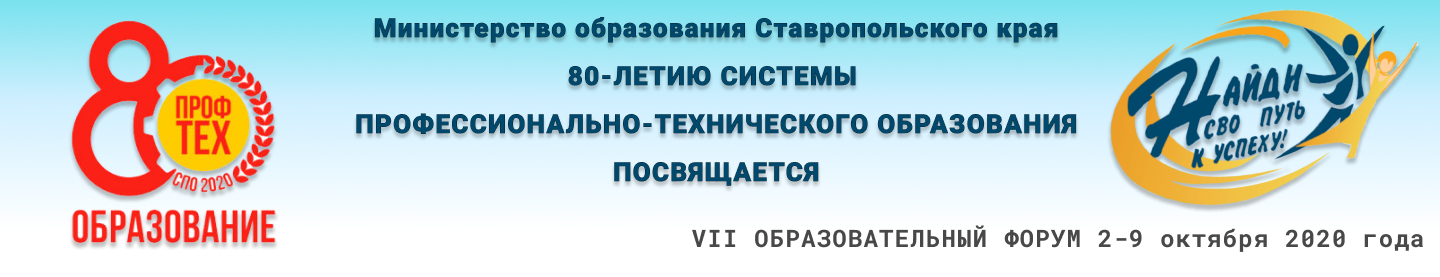
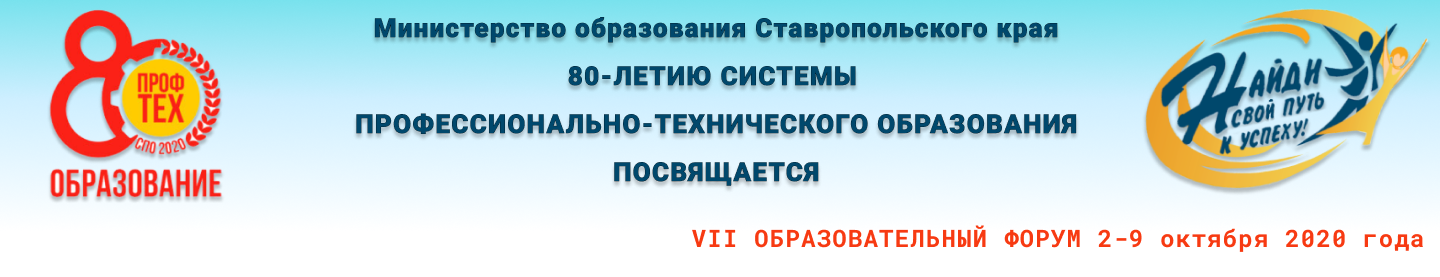
Обновление header + изменение списка участников + фавикон + кнопка наверх

diff --git a/index.html b/index.html
@@ -4,7 +4,9 @@
 <head>
     <meta charset="UTF-8">
     <meta name="viewport" content="width=device-width, initial-scale=1.0">
-    <title>Форум</title>
+    <title>Путь к успеху 2020</title>
+    <link rel="icon" type="image/png" sizes="32x32" href="img/favicon-32x32.png">
+<link rel="icon" type="image/png" sizes="16x16" href="img/favicon-16x16.png">
     <!-- CSS only -->
 <link rel="stylesheet" href="https://stackpath.bootstrapcdn.com/bootstrap/5.0.0-alpha1/css/bootstrap.min.css" integrity="sha384-r4NyP46KrjDleawBgD5tp8Y7UzmLA05oM1iAEQ17CSuDqnUK2+k9luXQOfXJCJ4I" crossorigin="anonymous">
 <link rel="stylesheet" href="style.css">
@@ -40,7 +42,7 @@ style="width:88px;  height:31px; border:0;" alt="Яндекс.Метрика" ti
 <noscript><div><img src="https://mc.yandex.ru/watch/67501840" style="position:absolute; left:-9999px;" alt="" /></div></noscript>
 <!-- /Yandex.Metrika counter -->
 <body>
-  <header>
+  <header id="head">
       <img src="img/head.png" alt="шапка">
   </header>
   <section class="naw_wrapper">
@@ -99,20 +101,37 @@ style="width:88px;  height:31px; border:0;" alt="Яндекс.Метрика" ti
                 
                 <div class="right-content-content_text" id="open">
             <p id="bb"> <img src="img/znak.png" alt="">Сайт предназначен для учащихся общеобразовательных школ, думающих о своей
-                будущей профессиональной деятельности. Мы рекомендуем рассмотреть материалы
+                будущей профессиональной деятельности. Мы рекомендуем рассмотреть материалы,
                 представленные здесь</p>
                 <!-- <hr width="100%" size="4px" color="black"> -->
                 <p id="tb">Участниками VII Образовательного форум «Найди свой путь к успеху!» на территории 7
                     зоны являются:</p>
-                    <ul>
-                        <li>Георгиевский региональный колледж «Интеграл»</li>
-                        <li>Георгиевский колледж</li>
-                        <li>Георгиевский техникум механизации, автоматизации и управления</li>
-                        <li>Новопавловский многопрофильный техникум</li>
-                    </ul>
+                      <div class="kollege_logo">
+                        <div class="kollege_logo_block quadro">
+                          <a href="https://www.gbpou-nmt.ru/" target="_blank"><img src="img/nmt.png" alt="Новопавловский многопрофильный техникум"></a>
+                          <p>Новопавловский многопрофильный техникум</p>
+                        </div>
+
+                        <div class="kollege_logo_block rectangle">
+                          <a href="http://www.integral-geo.ru/index.html" target="_blank" ><img src="img/integral.jpg" alt="Георгиевский региональный колледж «Интеграл»"></a>
+                          <p>Георгиевский региональный колледж «Интеграл»</p>
+                        </div>
+
+                        <div class="kollege_logo_block rectangle">
+                          <a href="http://fgou-gk.ru/" target="_blank" ><img src="img/gk.png" alt="Георгиевский колледж"></a>
+                          <p>Георгиевский колледж</p>
+                        </div>
+
+                        <div class="kollege_logo_block quadro">
+                          <a href="https://гео-тех.рф" target="_blank" ><img src="img/gtnau.jpg" alt="Георгиевский техникум механизации, автоматизации и управления"></a>
+                          <p>Георгиевский техникум механизации, автоматизации и управления</p>
+                        </div>
+                      </div>
+
+                      
                 </div>
             </div>
-            <div class="row video">
+            <div class="video">
                 <div class="col-sm-10 col-lg-6 offset-sm-1 offset-lg-2">
               <h3>ОТКРЫТИЕ ФОРУМА</h3>
               <iframe width="100%" height="350" src="https://www.youtube.com/embed/INVbXpNsuPI" frameborder="0" allow="accelerometer; autoplay; clipboard-write; encrypted-media; gyroscope; picture-in-picture" allowfullscreen></iframe>
@@ -197,7 +216,7 @@ style="width:88px;  height:31px; border:0;" alt="Яндекс.Метрика" ti
             <div class="col-2">
                 
                 <iframe width="100%" height="151" src="https://www.youtube.com/embed/INVbXpNsuPI" frameborder="0" allow="accelerometer; autoplay; clipboard-write; encrypted-media; gyroscope; picture-in-picture" allowfullscreen></iframe>
-             <p>НТМ</p>
+             <p>НМТ</p>
             </div>
             <div class="col-2"></div>
         </div>
@@ -217,14 +236,13 @@ style="width:88px;  height:31px; border:0;" alt="Яндекс.Метрика" ti
     <section class="reg" id="mk">
         <h4>МАСТЕР-КЛАССЫ ПО СПЕЦИАЛЬНОСТЯМ И ПРОФЕССИЯМ</h4>
         <div class="reg-cont"> 
-        <p><img src="img/znak.png" alt="">Уважаемые ученики! Рекомендуем вам изучить мастер-классы по интересующим профессиям и специальностям среднего профессионального образования и зарегистрироваться на интересующие мастер-классы. </p>
-            <p>      
-                Если вы зарегистрируетесь на мастер-класс, посмотрите его, то получите сертификат участника
-                мастер-класса. Для регистрации необходимо указать фамилию, имя, номер школы, номер
-                класса, e-mail для отправки сертификата.
-                Если кроме этого вы выполните домашнее задание и пришлете отчет о его выполнении на
-                электронную почту (integral_priem@mail.ru), то получите сертификат о прохождении
-                профессиональной пробы.</p>
+        <p><img src="img/znak.png" alt="">Уважаемые ученики! Рекомендуем вам изучить мастер-классы по интересующим
+          профессиям и специальностям среднего профессионального образования. </p>
+            <p>Если кроме
+              этого вы выполните домашнее задание и пришлете отчет о его выполнении на
+              электронную почту (integral_priem@mail.ru), то получите сертификат о прохождении
+              профессиональной пробы. Для выдачи сертификата в отчете необходимо указать
+              фамилию, имя, номер школы, номер класса, e-mail для отправки сертификата.  </p>
     </div>  
     </section>
 <section class="question" id="quest">
@@ -246,8 +264,12 @@ style="width:88px;  height:31px; border:0;" alt="Яндекс.Метрика" ti
  <li>9. Какой профессиональный уровень выпускников требует современное общество?</li>
  <li>10. Какие социальные навыки требуются современному рабочему?</li>
 </ul>
- <p> Уважаемые школьники, напишите номер вопроса и ответ на него, пришлите ответы на почту viknikkaz@mail.ru</p>
+ <p> Уважаемые школьники, напишите номер вопроса и ответ на него, пришлите ответы на почту integral_priem@mail.ru</p>
 
+</section>
+
+<section id="upbutton" class="up_button">
+  <a href="#head">&and;</a>
 </section>
   </mein>
     

diff --git a/style.css b/style.css
@@ -65,6 +65,8 @@ letter-spacing: 0.05em;
 }
 .right-content-content_text #bb{
     border-bottom:2px solid #000;
+    padding-bottom: 10px;
+    
     
 }
 .right-content{
@@ -181,7 +183,64 @@ padding-top: 30px;
      left:5%;
       top:95%;
 }
+.kollege_logo_block.rectangle{
+    width: 175px;
+}
 
+.kollege_logo_block.quadro{
+    width: 100px;
+}
+.kollege_logo_block{
+    
+    text-align: center;
+    margin-right: 50px;
+}
+.kollege_logo_block.quadro img{
+width: 100px;
+}
+
+.kollege_logo_block.rectangle img{
+    width: 175px;
+}
+.kollege_logo_block img{
+    height: 75px;
+
+    
+}
+
+.kollege_logo{
+    display: flex;
+    margin-top: 20px;
+    justify-content: center;
+    flex-wrap: wrap;
+
+}
+
+.kollege_logo_block p{
+padding-top: 10px;
+font-size: 13px;
+}
+
+.up_button a{
+    color: #000;
+    font-weight: bold;
+    text-decoration: none;
+    padding:0 20px 0 20px;
+    border: none;
+    background: #4FDBE4;
+    
+}
+
+.up_button{
+    position: fixed;
+    bottom: 10px;
+    left:85%;
+    opacity: 1;
+}
+
+.up_button a:hover{
+    background: #0ac9d6;
+}
 
 /* @media screen and (max-width: 1500px){
     header{
@@ -224,7 +283,7 @@ padding-top: 30px;
 
 
 
- @media screen and (max-width: 1000px){
+ @media screen and (max-width: 996px){
     .nav-left a{
         font-size: 12px;
      }
@@ -274,6 +333,7 @@ padding-top: 30px;
      .slick-list{
          overflow: hidden;
      }
+     
  }
 
  /* 

diff --git a/js/script.js b/js/script.js
@@ -4,3 +4,18 @@ $('.rabot-slider').slick({
     slidesToShow:2,
 });
 });
+
+
+
+
+
+$(window).scroll(function() {
+    if ($(this).scrollTop() > 100) {
+        if ($('#upbutton').is(':hidden')) {
+            $('#upbutton').css({opacity : 1}).fadeIn('slow');
+        }
+    } else { $('#upbutton').stop(true, false).fadeOut('fast'); }
+});
+$('#upbutton').click(function() {
+    $('html, body').stop().animate({scrollTop : 0}, 300);
+});
